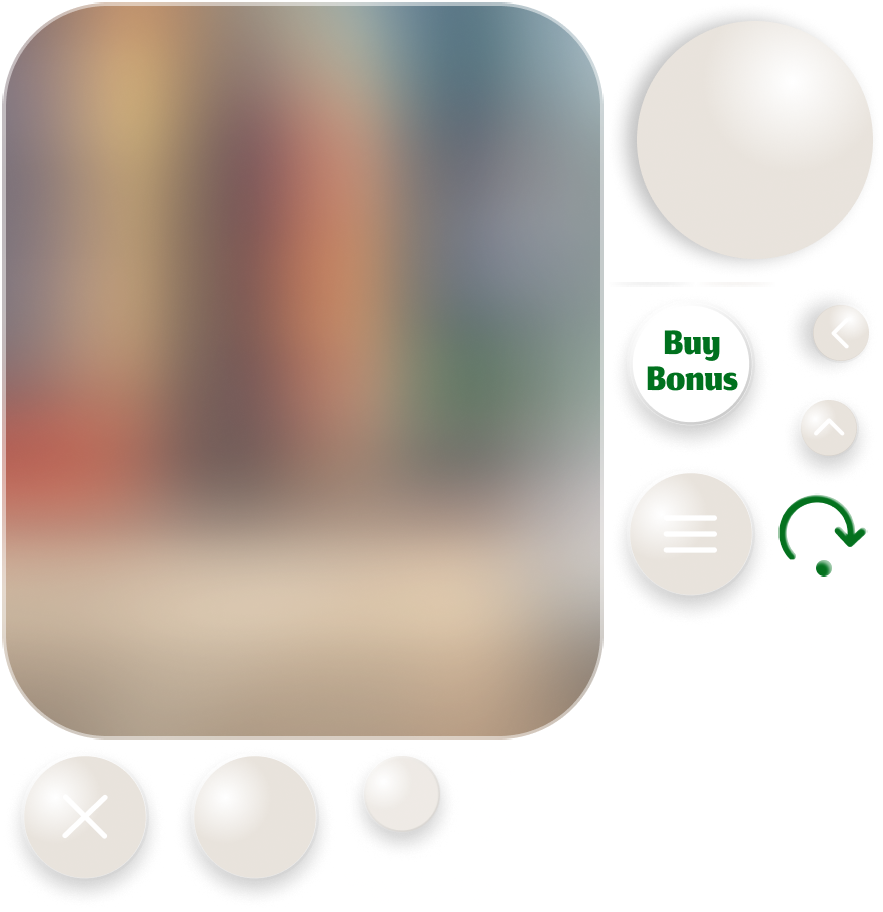
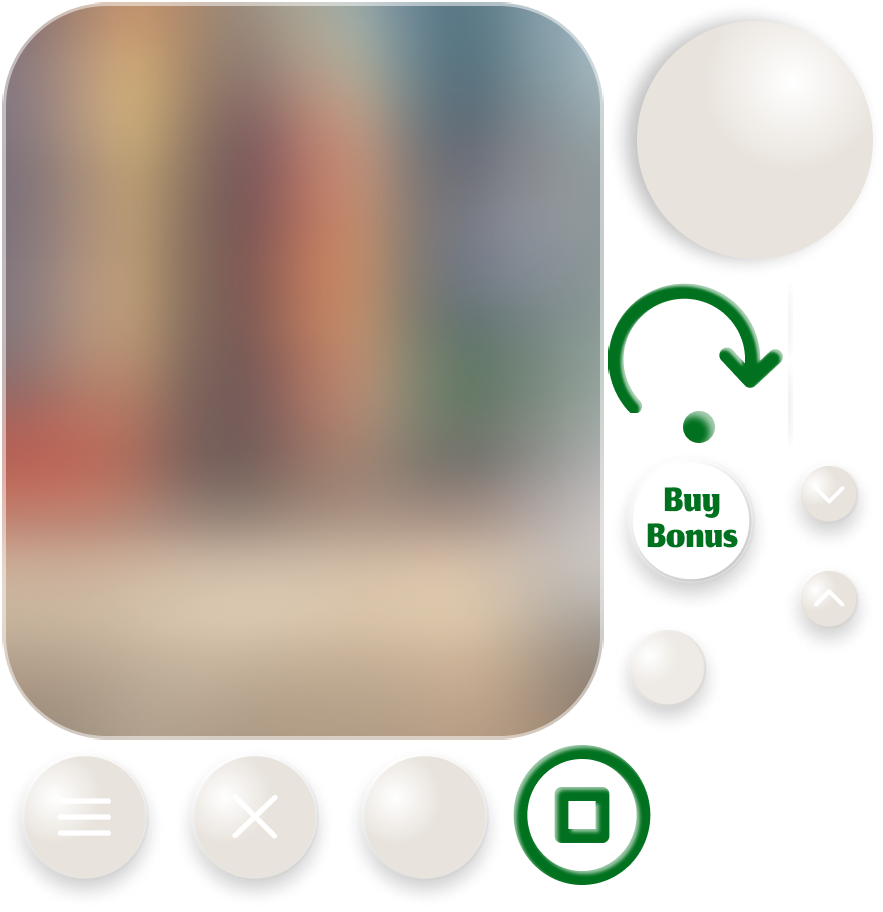
Added spin button.

diff --git a/src/views/SpinButton.ts b/src/views/SpinButton.ts
@@ -1,0 +1,59 @@
+import { lego } from "@armathai/lego";
+import { Container, Sprite } from "pixi.js";
+import { uiSpinBtnArrowL, uiSpinBtnBkgL, uiSpinBtnStopL } from "../configs/spritesConfig";
+import { UIEvents } from "../events/MainEvents";
+import { SlotMachineModelEvents } from "../events/ModelEvents";
+import { SlotMachineState } from "../models/SlotMachineModel";
+import { makeSprite } from "../utils/Utils";
+
+export class SpinButton extends Container {
+  private bkg!: Sprite;
+  private spinArrow!: Sprite;
+  private stopSign!: Sprite;
+
+  private slotState = SlotMachineState.Unknown;
+
+  constructor() {
+    super();
+
+    lego.event.on(SlotMachineModelEvents.StateUpdate, this.onSlotStateUpdate, this);
+
+    this.build();
+  }
+
+  private build(): void {
+    this.buildBkg();
+    this.buildSpinArrow();
+    this.buildStopSign();
+  }
+
+  private buildBkg(): void {
+    this.bkg = makeSprite(uiSpinBtnBkgL());
+    this.bkg.eventMode = "static";
+    this.bkg.on("pointerdown", () => {
+      lego.event.emit(UIEvents.SpinButtonClick);
+    });
+    this.addChild(this.bkg);
+  }
+
+  private buildSpinArrow(): void {
+    this.spinArrow = makeSprite(uiSpinBtnArrowL());
+    this.addChild(this.spinArrow);
+  }
+
+  private buildStopSign(): void {
+    this.stopSign = makeSprite(uiSpinBtnStopL());
+    this.stopSign.visible = false;
+    this.addChild(this.stopSign);
+  }
+
+  private onSlotStateUpdate(state: SlotMachineState): void {
+    if (state === SlotMachineState.Idle || state === SlotMachineState.Error) {
+      this.stopSign.visible = false;
+      this.spinArrow.visible = true;
+    } else {
+      this.stopSign.visible = true;
+      this.spinArrow.visible = false;
+    }
+  }
+}

diff --git a/src/views/UIView.ts b/src/views/UIView.ts
@@ -1,17 +1,18 @@
 import { PixiGrid, type ICellConfig } from "@armathai/pixi-grid";
 import { Container, type Sprite } from "pixi.js";
 import { getUIViewGridConfig } from "../configs/gridConfigs/uiViewGC";
-import { uiButBonusBtnL, uiMenuBtnL, uiPortraitBkgL, uiSpinBtnBkgL } from "../configs/spritesConfig";
+import { uiButBonusBtnL, uiMenuBtnL, uiPortraitBkgL } from "../configs/spritesConfig";
 import { makeSprite } from "../utils/Utils";
 import { Balance } from "./BalanceView";
 import { Bet } from "./BetView";
+import { SpinButton } from "./SpinButton";
 
 export class UILandscapeView extends PixiGrid {
   private wrapper = new Container();
   private bkg!: Sprite;
   private menuBtn!: Sprite;
   private buyBonusBtn!: Sprite;
-  private spinBtnBkg!: Sprite;
+  private spinBtn!: SpinButton;
   private balance!: Balance;
   private bet!: Bet;
 
@@ -55,8 +56,8 @@ export class UILandscapeView extends PixiGrid {
   }
 
   private buildSpinButtonBkg(): void {
-    this.spinBtnBkg = makeSprite(uiSpinBtnBkgL());
-    this.wrapper.addChild(this.spinBtnBkg);
+    this.spinBtn = new SpinButton();
+    this.wrapper.addChild(this.spinBtn);
   }
 
   private buildBalance(): void {

diff --git a/src/configs/spritesConfig.ts b/src/configs/spritesConfig.ts
@@ -116,6 +116,14 @@ export const uiButBonusBtnL = (): SpriteConfig => ({
   y: 12,
 });
 
+export const betArrowBtnL = (type: "up" | "down"): SpriteConfig => ({
+  frame: `arrow_${type}.png`,
+  atlas: "ui_l",
+  name: type,
+  x: 150,
+  y: type === "up" ? -30 : 50,
+});
+
 export const uiSpinBtnBkgL = (): SpriteConfig => ({
   frame: "spin_btn_bkg.png",
   atlas: "ui_l",
@@ -124,10 +132,18 @@ export const uiSpinBtnBkgL = (): SpriteConfig => ({
   y: 9,
 });
 
-export const betArrowBtnL = (type: "up" | "down"): SpriteConfig => ({
-  frame: `arrow_${type}.png`,
+export const uiSpinBtnArrowL = (): SpriteConfig => ({
+  frame: "spin_button.png",
   atlas: "ui_l",
-  name: type,
-  x: 150,
-  y: type === "up" ? -30 : 50,
+  name: "spin_button_arrow",
+  x: -12,
+  y: -10,
+});
+
+export const uiSpinBtnStopL = (): SpriteConfig => ({
+  frame: "spin_btn_stop.png",
+  atlas: "ui_l",
+  name: "spin_button_stop",
+  x: -12,
+  y: 0,
 });
